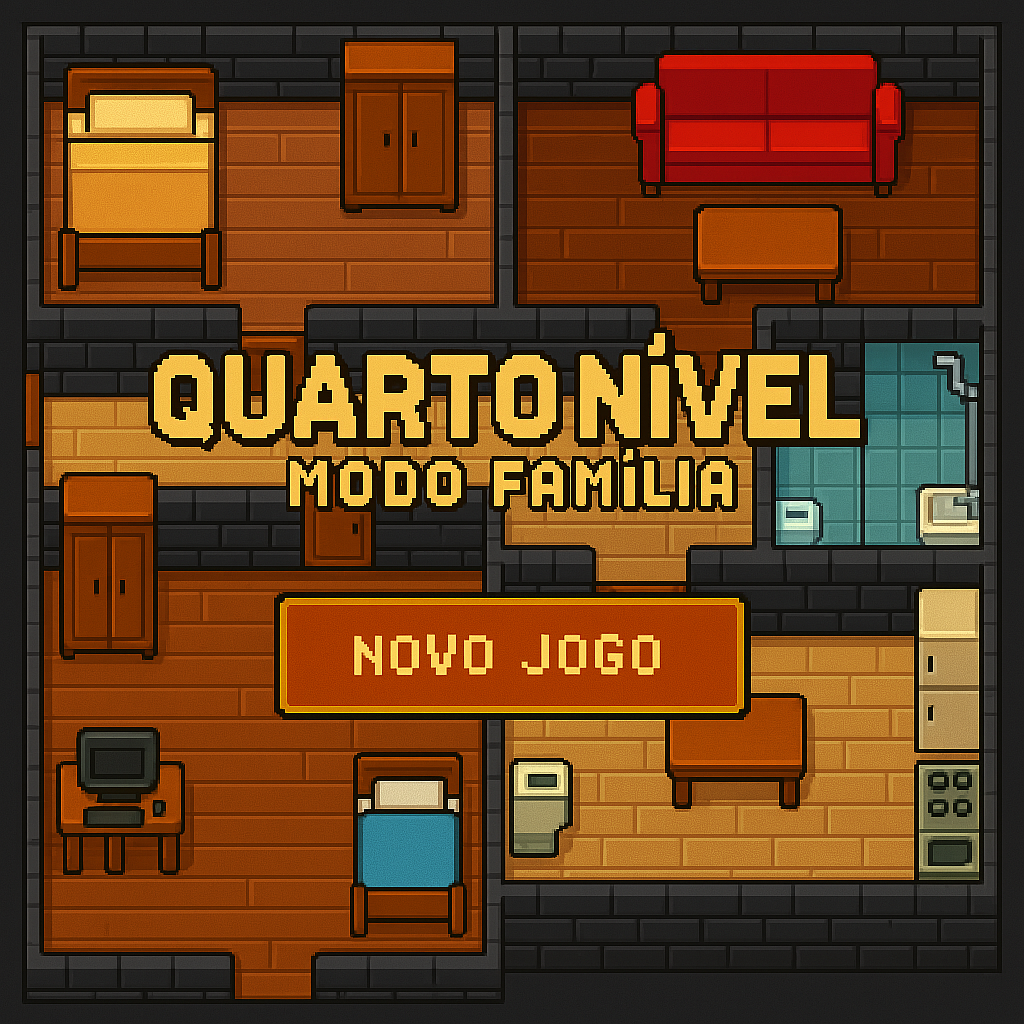
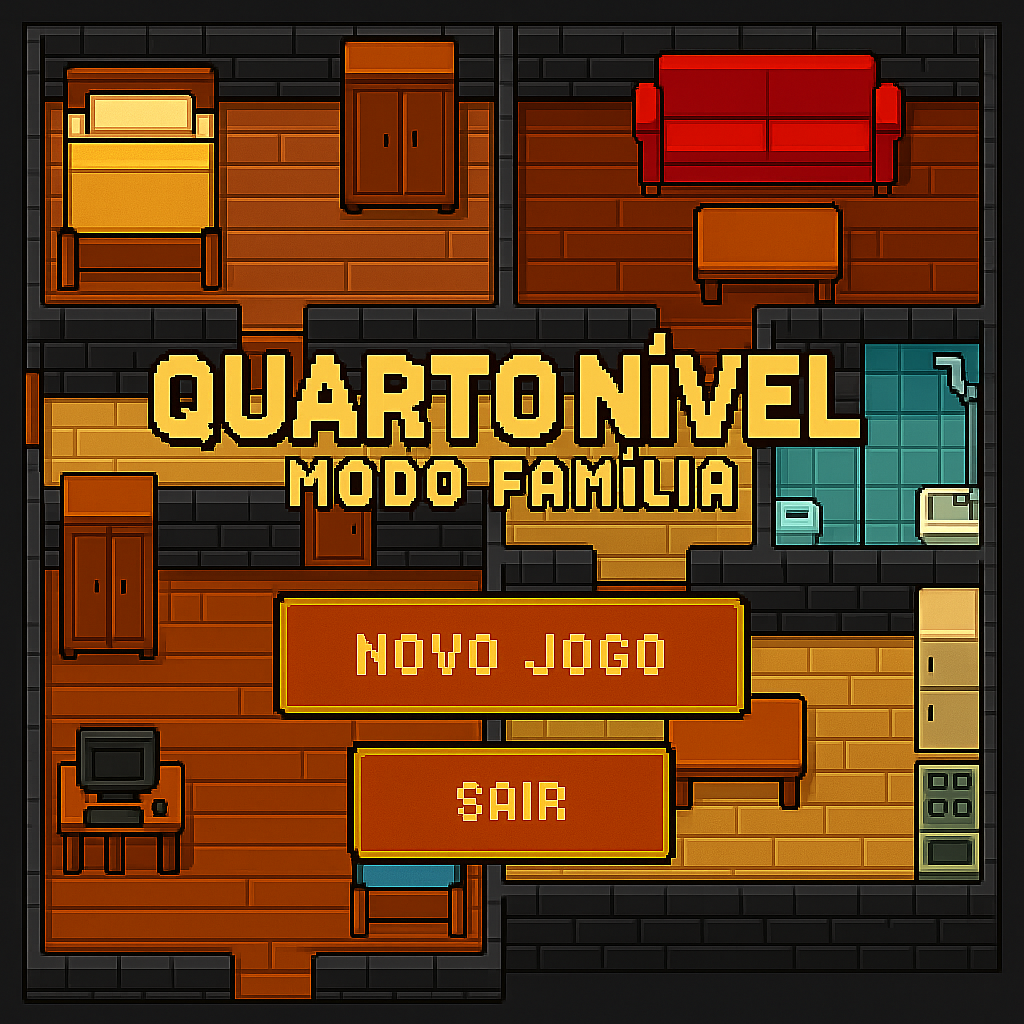
Implementação do Menu funcional
Agora o Menu está funcionando e foi Adicionada opção de sair nele.

Changed region(s): [[0.0312, 0.0312, 0.9688, 0.9688], [0.3438, 0.0312, 0.4375, 0.0938]]

diff --git a/src/main.py b/src/main.py
@@ -1,5 +1,5 @@
 import pygame
-import pygame
+
 
 from constantes import ESCALA_LARGURA, ESCALA_ALTURA, TILE_SIZE
 from mapa import carregar_casa, carregar_quintal, carregar_Menu
@@ -27,36 +27,38 @@ ultima_posicao_fixa = (personagem_x, personagem_y)
 
 relogio = pygame.time.Clock()
 rodando = True
+Iniciar = Exibir_Menu(tela,menu_img)
 
-while rodando:
-    for evento in pygame.event.get():
-        if evento.type == pygame.QUIT:
-            rodando = False
+if Iniciar == "Jogar":
+    while rodando:
+        for evento in pygame.event.get():
+            if evento.type == pygame.QUIT:
+                rodando = False
 
-    teclas = pygame.key.get_pressed()
-    nova_posicao, nova_direcao = mover_personagem(teclas, (personagem_x, personagem_y), mapa_colisao)
+        teclas = pygame.key.get_pressed()
+        nova_posicao, nova_direcao = mover_personagem(teclas, (personagem_x, personagem_y), mapa_colisao)
 
-    # Atualiza posição
-    if nova_posicao != (personagem_x, personagem_y):
-        ultima_posicao_fixa = nova_posicao
-    personagem_x, personagem_y = nova_posicao
+        # Atualiza posição
+        if nova_posicao != (personagem_x, personagem_y):
+            ultima_posicao_fixa = nova_posicao
+        personagem_x, personagem_y = nova_posicao
 
-    # Atualiza direção só se nova_direcao não for None
-    if nova_direcao is not None:
-        direcao_personagem = nova_direcao
+        # Atualiza direção só se nova_direcao não for None
+        if nova_direcao is not None:
+            direcao_personagem = nova_direcao
 
-    # Desenha fundo
-    tela.blit(casa_img, (0, 0))
+        # Desenha fundo
+        tela.blit(casa_img, (0, 0))
 
-    # Desenha personagem
-    sprite = sprites[direcao_personagem]
-    largura_pers = sprite.get_width()
-    altura_pers = sprite.get_height()
-    pos_x = personagem_x * TILE_SIZE + (TILE_SIZE - largura_pers) // 2
-    pos_y = personagem_y * TILE_SIZE + (TILE_SIZE - altura_pers) // 2
-    tela.blit(sprite, (pos_x, pos_y))
+        # Desenha personagem
+        sprite = sprites[direcao_personagem]
+        largura_pers = sprite.get_width()
+        altura_pers = sprite.get_height()
+        pos_x = personagem_x * TILE_SIZE + (TILE_SIZE - largura_pers) // 2
+        pos_y = personagem_y * TILE_SIZE + (TILE_SIZE - altura_pers) // 2
+        tela.blit(sprite, (pos_x, pos_y))
 
-    pygame.display.update()
-    relogio.tick(15)
-
-pygame.quit()
+        pygame.display.update()
+        relogio.tick(15)
+else:
+    pygame.quit()

diff --git a/src/interface.py b/src/interface.py
@@ -4,9 +4,9 @@ import sys
 def Exibir_Menu(tela,menu_img):
 
     botoes = [ 
-        {"rect": pygame.Rect(340, 410, 600, 85)}
-        
-    ]
+        {"texto": "Jogar", "rect": pygame.Rect(340, 410, 600, 85)},
+        {"texto": "Sair", "rect": pygame.Rect(410, 515, 420, 65)}
+            ]
     rodando = True
     while rodando:
         tela.blit(menu_img, (0, 0))
@@ -20,5 +20,6 @@ def Exibir_Menu(tela,menu_img):
 
             if evento.type == pygame.MOUSEBUTTONDOWN:
                 for botao in botoes:
-                    if botao["rect"].collidepoint(evento.pos):
-                        return "em manutenção"  # Retorna a opção escolhida
+                         
+                      if botao["rect"].collidepoint(evento.pos):
+                        return botao["texto"]  # Retorna a opção escolhida
